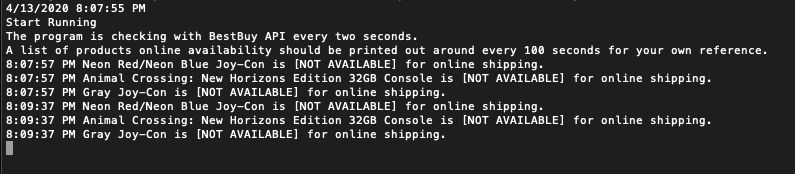
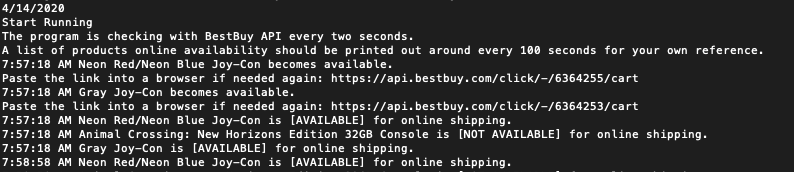
easy run formatting updates

diff --git a/EasyRunSwitchInStockTracker.js b/EasyRunSwitchInStockTracker.js
@@ -1,14 +1,7 @@
 const open = require('open')
 const BestBuyAPI = require('bestbuy')('');
-const SKUs = [6364255, 6364253, 6401728];
-const CreateSKUsQuery = (skusArr) => {
-    param = sku => `SKU=${sku}`
-    skus = skusArr.map(param);
-    return skus.join('|');
-};
-
-var SearchRslts = (prodIds) => {
-    return BestBuyAPI.products(CreateSKUsQuery(prodIds), {
+var SearchRslts = () => {
+    return BestBuyAPI.products("SKU=6364255|SKU=6364253|SKU=6401728", {
     show: 'sku,name,onlineAvailability,addToCartUrl'
     })
 }
@@ -16,10 +9,10 @@ var LastUpdateStr = [" ", " ", " "];
 var LastOnlineAvailable = [false, false, false];
 var counter = -1;
 function Monitor() {
-    SearchRslts(SKUs).then(response => {
+    SearchRslts().then(response => {
         var prods = response.products
         for (i = 0; i < 3; i++){
-            var name = prods[i].name.split(' - ')[2];
+            var name = prods[i].name.split(' - ')[2].substring(0, 10);
             if(prods[i].onlineAvailability!=LastOnlineAvailable[i]){
                 if(!LastOnlineAvailable[i]){
                     open(prods[i].addToCartUrl)
@@ -34,12 +27,12 @@ function Monitor() {
         }counter+=1;
         if(counter%50==0){
             for (i = 0; i < 3; i++){
-                var pStr = (new Date).toLocaleTimeString() + " " + prods[i].name.split(' - ')[2] + " is ["
-                if(!prods[i].onlineAvailability)
-                    pStr+="NOT "
-                    pStr+= "AVAILABLE] for online shipping."
-                    console.log(pStr)
-                    }
+                var pStr = (new Date).toLocaleTimeString() + " " + prods[i].name.split(' - ')[2].substring(0, 10) + " is ["
+                if(!prods[i].onlineAvailability){
+                    pStr+="NOT "}
+                pStr+= "AVAILABLE] for online shipping."
+                console.log(pStr)
+            }
             
         }
     }).catch(err => err)
